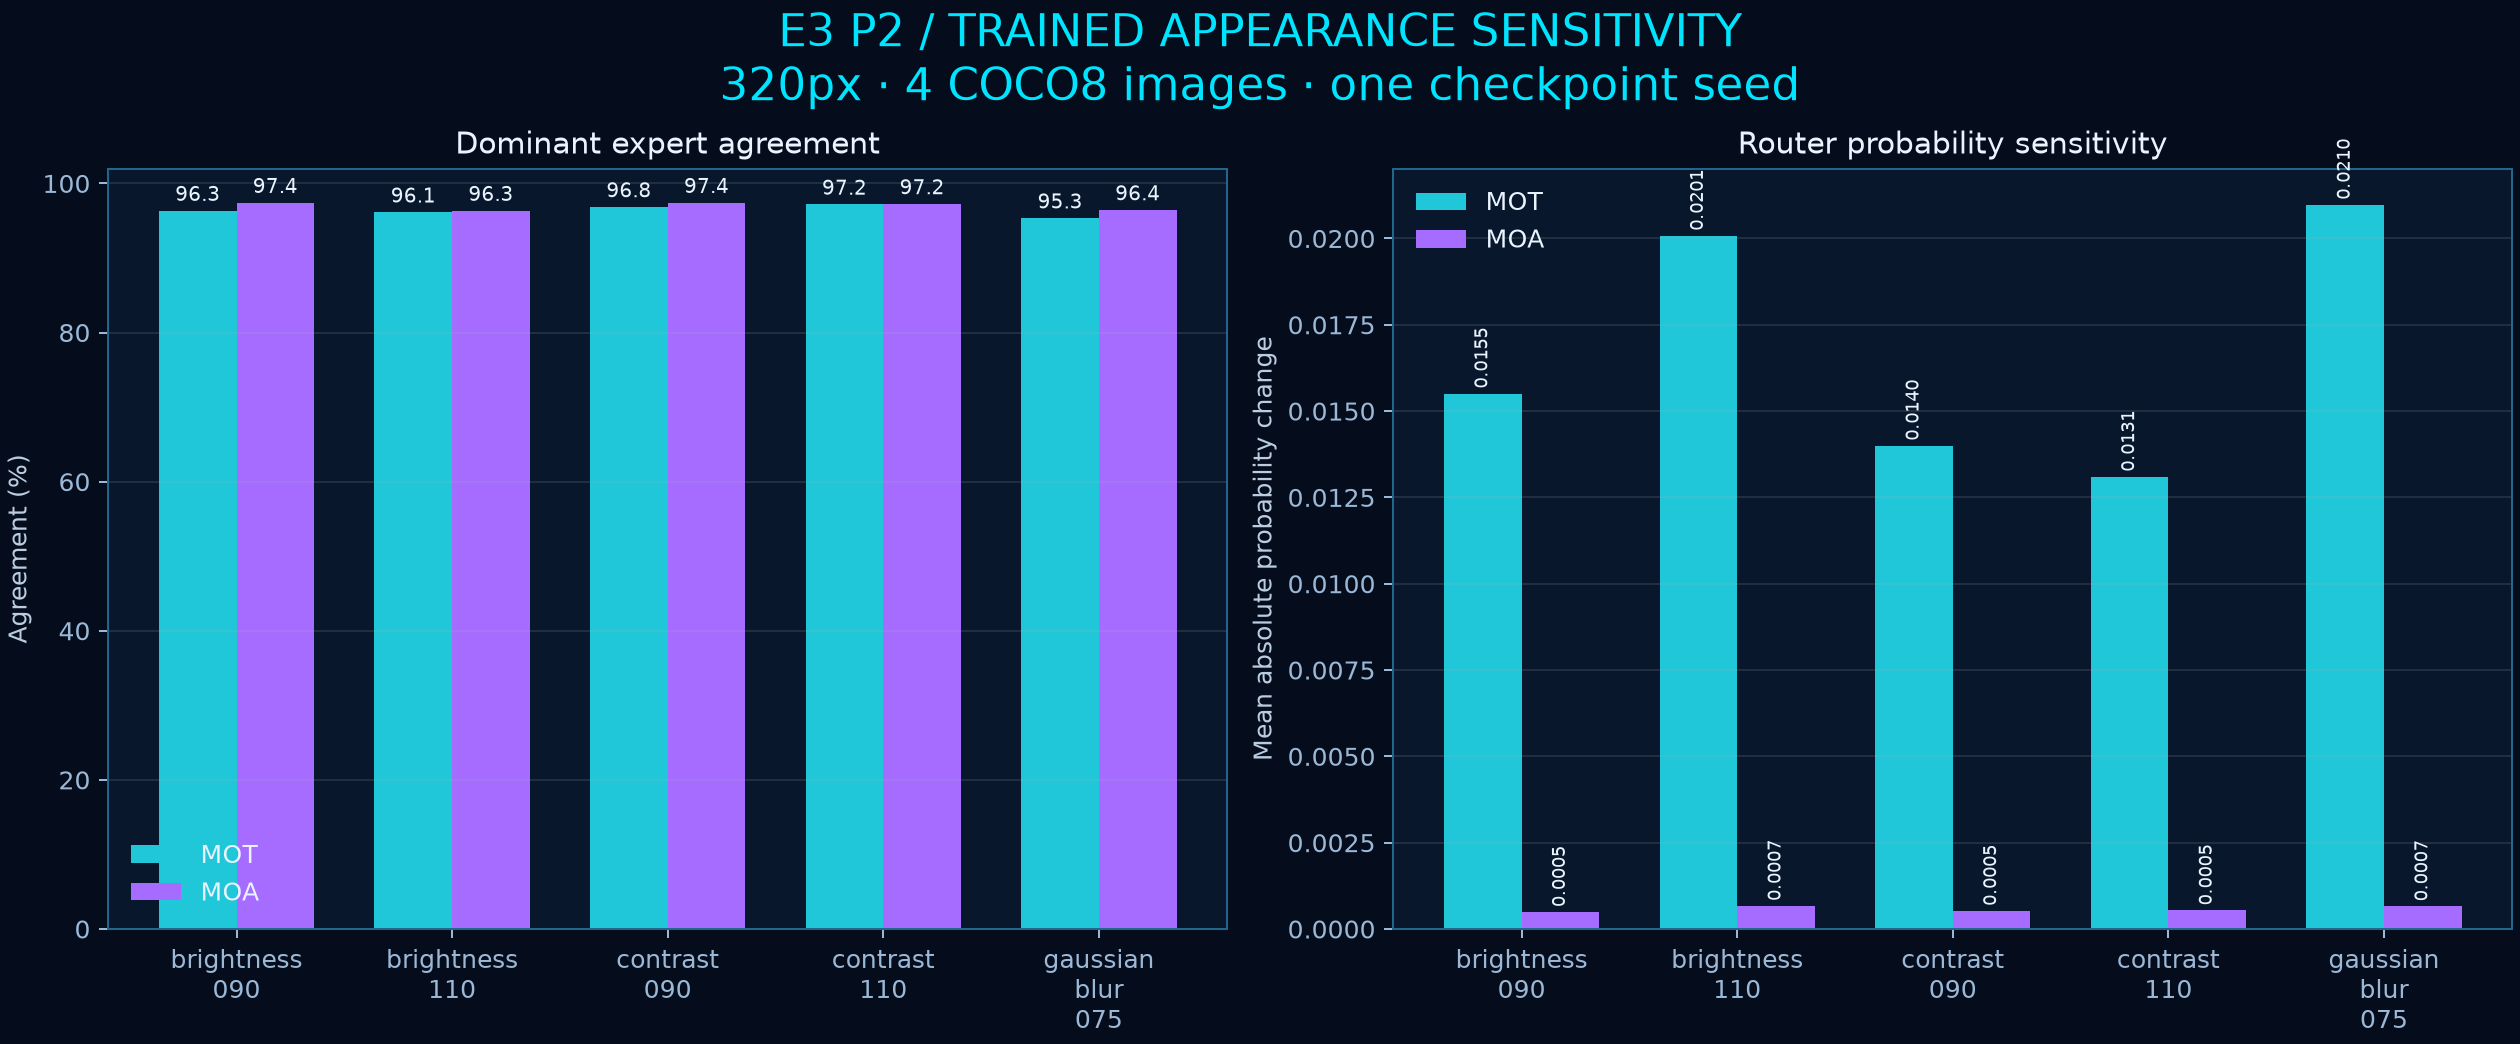
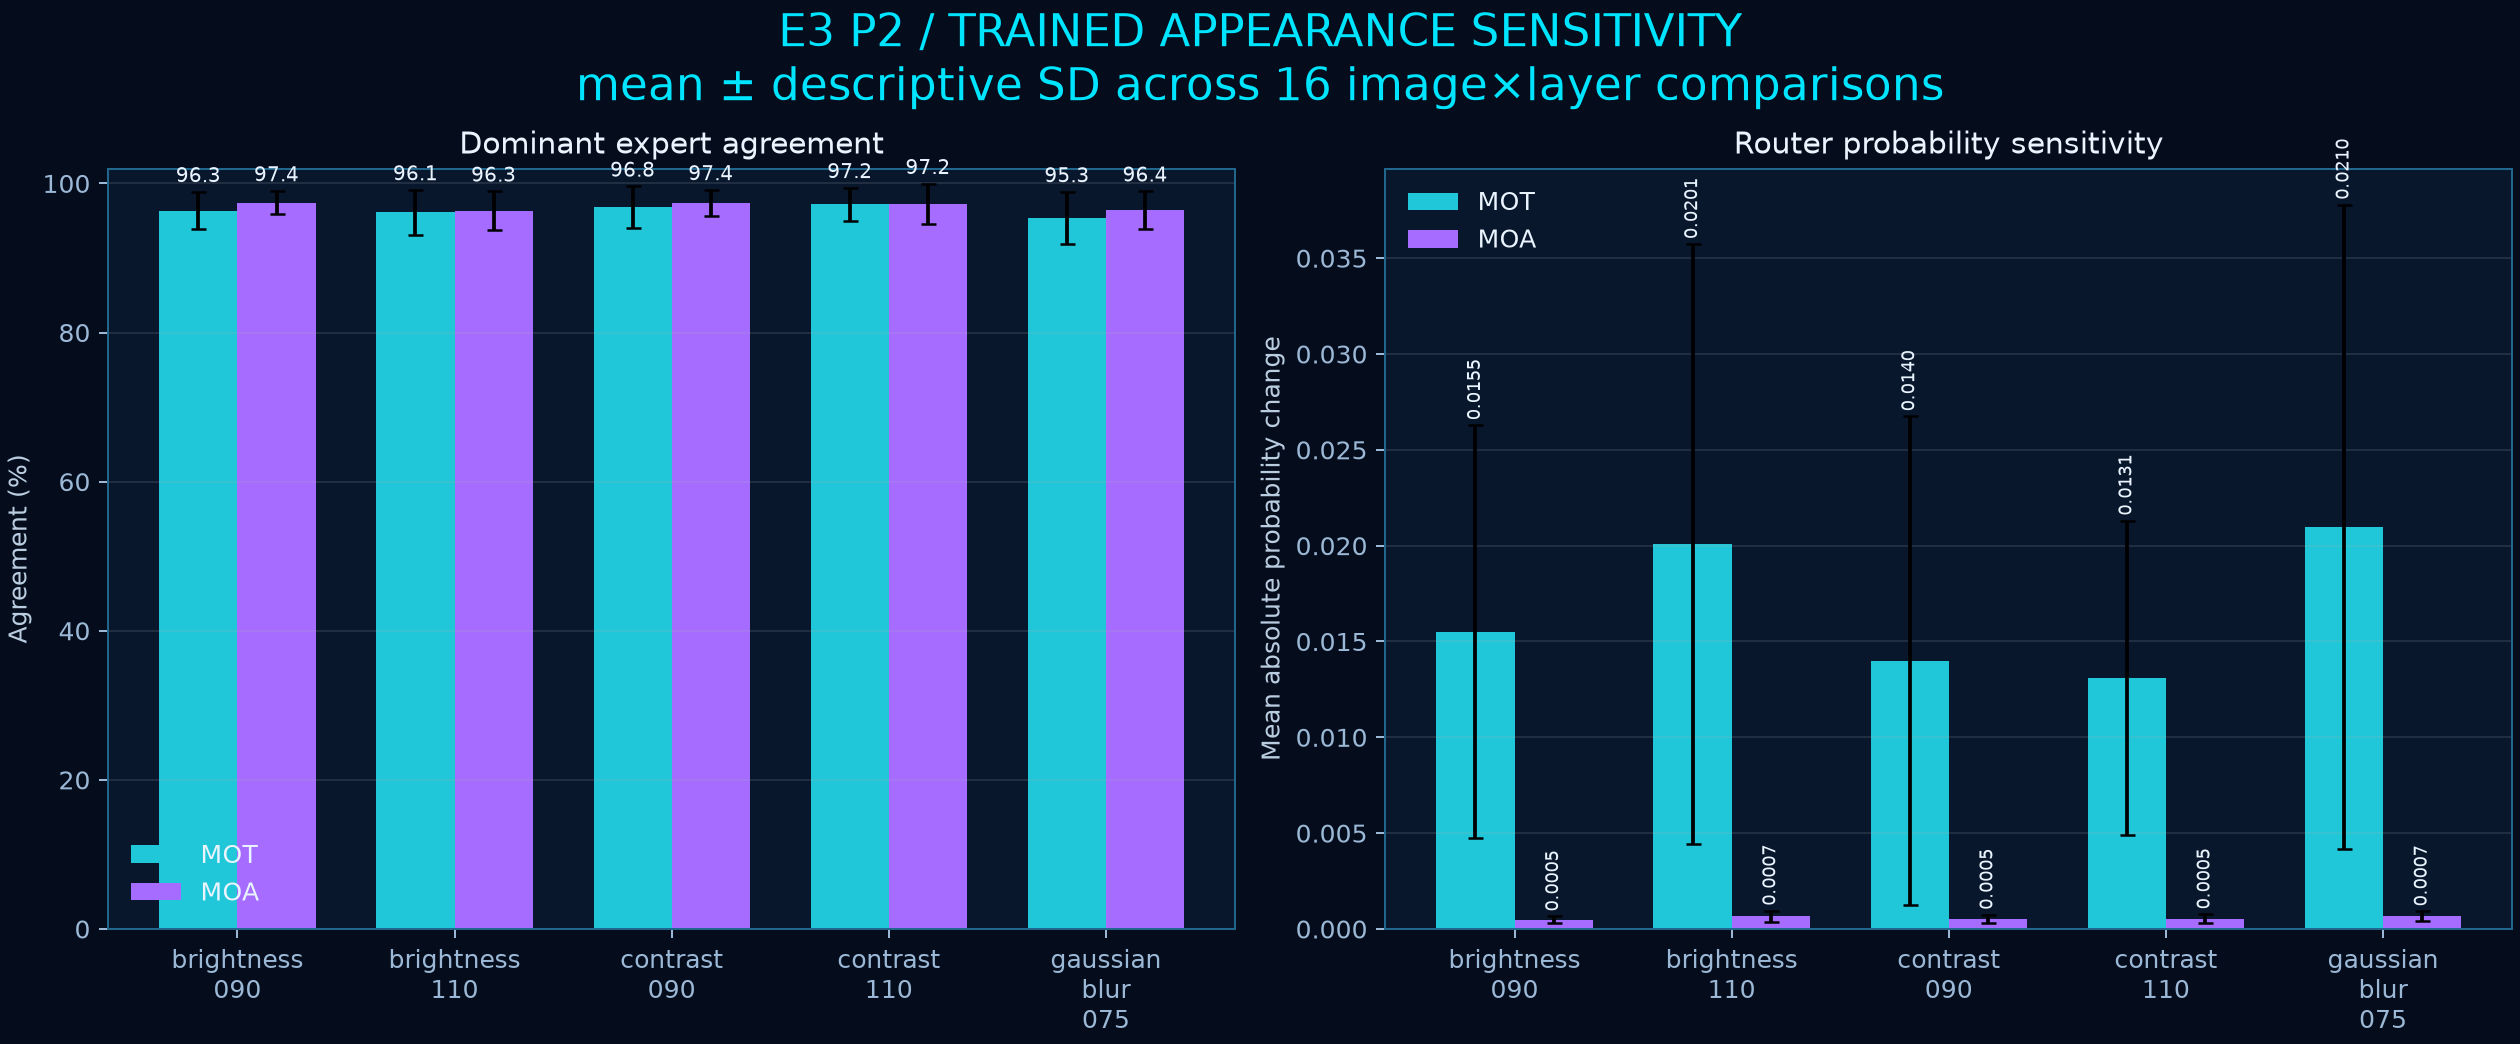
Refresh final P2 appearance evidence

diff --git a/docs/FINAL_RESEARCH_REPORT.md b/docs/FINAL_RESEARCH_REPORT.md
@@ -80,9 +80,17 @@ P2 没有把检测框当作路由热图，而是通过临时 forward hook 捕获
 
 ![Appearance sensitivity](../artifacts/stages/p2/appearance-sensitivity.png)
 
+误差条汇总 4 张图片 × 4 个路由层的 16 个比较单元，表示描述性样本标准差，不作为独立样本置信区间。实际输入审计同时保存原图、亮度 ±10%、对比度 ±10% 与 Gaussian blur 0.75；所有变换保持相同空间几何。
+
+![Appearance input audit](../artifacts/stages/p2/appearance-inputs.png)
+
 ![Router attribution](../artifacts/stages/p2/router-attribution.png)
 
[1 lines of base64/hex data omitted]
+相对 attribution 之外，P2 还在统一 `log10` 色阶上报告 MOT/MOA 各层绝对 probability MAE，防止“小变化中的最大占比”被误读成“大幅响应”。
+
+![Absolute router sensitivity](../artifacts/stages/p2/router-absolute-sensitivity.png)
+
[1 lines of base64/hex data omitted]
 
 ![MOT 逐层真实活跃专家](../artifacts/stages/p2/trained-mot-layer-focus.png)
 

diff --git a/docs/TENCENT_ACCEPTANCE_AUDIT.md b/docs/TENCENT_ACCEPTANCE_AUDIT.md
@@ -24,7 +24,7 @@
 | P1：on/off、warm-up、重复与区间 | 配置、raw runs、bootstrap CI | ✅ | MOT GPU 非确定性已显式说明 |
 | P2：token 路由叠加原图 | MOT/MOA 真 `[E,H,W]` overlay | ✅ | letterbox 反变换与 padding 排除有验证 |
 | P2：更多路由族 | 五族 capability manifest | ✅/降级 | 只有 MOT/MOA 有空间轴；其余三族禁止伪造热图 |
-| P2：外观/路由分析图 | sensitivity、attribution、scatter、usage | ✅ | 概率、argmax、margin 联合解释 |
+| P2：外观/路由分析图 | input audit、sensitivity、relative/absolute attribution、scatter、usage | ✅ | 固定几何；描述性 SD；概率、argmax、margin 联合解释 |
 | P2：2 分钟 demo | 训练后交互页 + 120.0 秒 MP4 + SHA-256 | ✅ | 1600×900、10 fps；抽帧覆盖路由与四类分析图 |
 | 至少 3 seed 或声明局限 | P1 与 Final 消融 3 seeds | ✅ | 单 checkpoint P2 图仍标明单 seed |
 | 负结果有预定义判读线 | Final `configs/ablation.yaml` | ✅ | MOA 未过线，如实报告 |

diff --git a/docs/README_RESULT_AUDIT.md b/docs/README_RESULT_AUDIT.md
@@ -18,6 +18,6 @@ P0 原有 contract coverage 图回答“哪些族通过统一 schema”，逐层
 
 ## 自动完整性检查
 
-本轮扫描五个 README 的本地图片引用：Smoke 1、P0 2、P1 4、P2 9、Final 1，共 17 个引用，缺失文件为 0。Final 报告保存的 P1 开销图与 P2 训练后总览图分别和阶段仓库正式文件 SHA-256 一致。
+本轮扫描五个 README 的本地图片引用：Smoke 1、P0 2、P1 4、P2 11、Final 1，共 19 个引用，缺失文件为 0。P2 新增的外观输入审计和绝对路由敏感性均来自当前正式训练结果；Final 报告保存的 P1 开销图与 P2 训练后证据分别和阶段仓库正式文件 SHA-256 一致。
 
 历史结果没有删除。保留旧文件可以审计失败、CPU 调度噪声和开发过程，但 README 不再把它们与当前正式结论并列展示。
